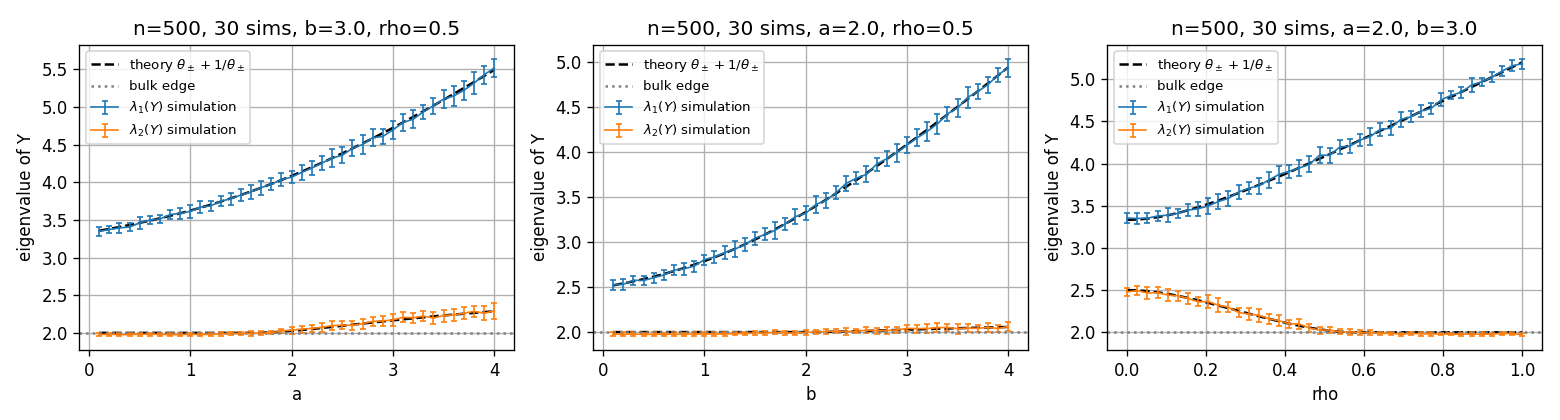
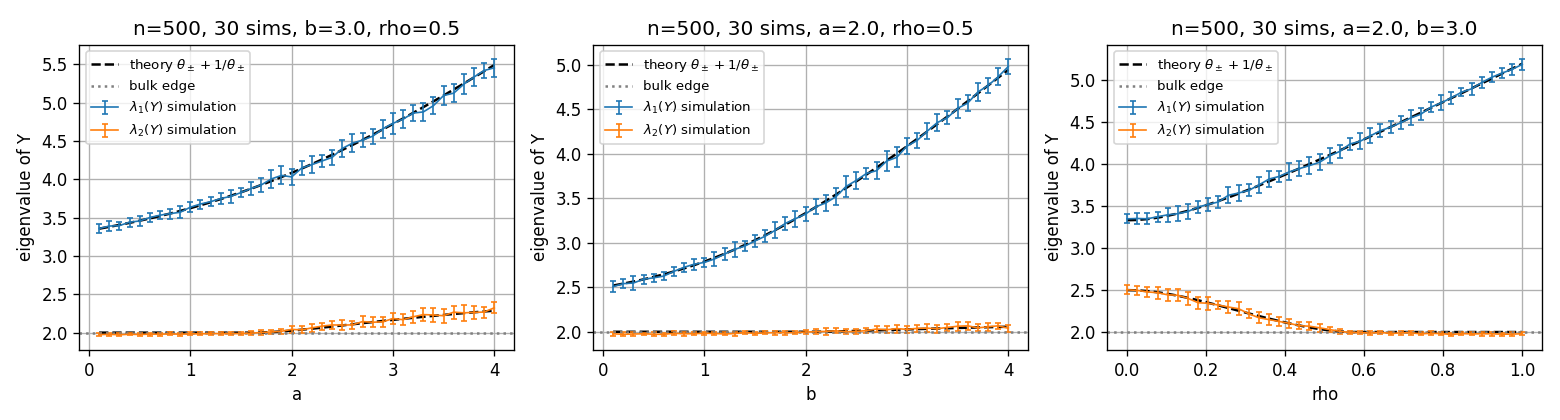
petites modifs

diff --git a/Theory/check_bulk.py b/Theory/check_bulk.py
@@ -1,29 +1,16 @@
-"""WITH the noise bulk: Y = P + W, W Wigner.
-
-Theory (report, eq. bbp): outliers of Y sit at theta + 1/theta when theta > 1 (else at the
-bulk edge 2); the top eigenvector x_hat of Y overlaps the eigenvector v_+ of P with
-sqrt(1 - theta_+^-2), hence  |<x_hat, x_i>| -> sqrt(1 - theta_+^-2) |<v_+, x_i>|.
-
-Figures (saved next to this file):
-  eig   : eigenvalues_Y.png       top-2 eigenvalues of Y vs a, b, rho (+ bulk edge)
-  lam   : overlaps_vs_lambda.png  |<u_pm, v_pm>| vs lambda (lambda1 = lambda2 = lambda)
-  heat  : heat_lambda1_rho.png    |<x_hat,x1>|, |<x_hat,x2>| vs (lambda1, rho), lambda2 fixed
-          heat_a_rho.png          same vs (a, rho), b fixed
-  phase : phase_rho=*.png         RGB phase diagrams in the (a, b) plane, one per rho
-  comp_x_hat : comp_x_hat.png  top eigenvalue of A = Y2 - I + 2 mu F1(x) vs rho and vs lambda1, for
-          x = true x_hat, BBP surrogate m1 x1 + sqrt(1-m1^2) g_perp, and m1 x1
-Run:  python check_bulk.py [eig lam heat phase comp_x_hat]      (no argument = all)
-"""
 import sys
 import numpy as np
 import matplotlib.pyplot as plt
 import matplotlib.patches as mpatches
-import Two_spikes_th_lib as theory
+import two_spikes_th_lib as theory
 from spike_lib import TwoSpikes
-from Two_spikes_th_lib import TwoS_theory
+from two_spikes_th_lib import TwoS_theory
+import os
 
     
 ALPHA = np.sqrt(0.5)
+DIR_PLOTS = "results"       # la ou on envoie nos plots (quel folder)
+os.makedirs(DIR_PLOTS, exist_ok=True)
 
 
 
@@ -80,7 +67,7 @@ def fig_eig(n=500, sims=30):
         others = ", ".join(f"{k}={v}" for k, v in base.items() if k != name)
         ax.set_xlabel(name); ax.set_ylabel("eigenvalue of Y"); ax.set_title(f"n={n}, {sims} sims, {others}")
         ax.grid(); ax.legend(fontsize=8)
-    fig.tight_layout(); fig.savefig("eigenvalues_Y.png", dpi=120)
+    fig.tight_layout(); fig.savefig(os.path.join(DIR_PLOTS, "eigenvalues_Y.png"), dpi=120)
 
 
 #### a refaire 
@@ -250,7 +237,7 @@ def fig_comp_x_hat(n=500, lam1=2.0, lam2=3.0, mu=0.5, rho=0.5, sims=50, n_pts=26
         ax.set_title(rf"{fixed[name]}, $\lambda_2$={lam2}, $\mu$={mu}, $n$={n}")
         ax.grid(); ax.legend(fontsize=8)
     fig.suptitle(f"all the x and theory over {sims} simulations")
-    fig.tight_layout(); fig.savefig("comp_x_hat.png", dpi=120)
+    fig.tight_layout(); fig.savefig(os.path.join(DIR_PLOTS, "comp_x_hat.png"), dpi=120)
     return out
 
 

diff --git a/Theory/Two_spikes_th_lib.py b/Theory/Two_spikes_th_lib.py
@@ -106,7 +106,7 @@ def overlap_naive_signal(theta, rho, a, b):
     return o1, o2
 
 
-def beta_value(mu, lambda1, m1, lambda2, rho):
+def beta_value(mu, lambda1, m1, lambda2, rho):  # builds the beta matrix, diagonalizes it, returns the top eigenvalue
     """Top eigenvalue of the 3x3 matrix beta.
 
     beta is the low-rank part of A = Y2 - I + 2 mu F1(x),  x = m1 x1 + sqrt(1 - m1^2) g_perp,
@@ -120,7 +120,7 @@ def beta_value(mu, lambda1, m1, lambda2, rho):
         beta13 = beta31 = 2 mu (lambda1-1)^2 m1 sqrt(1 - m1^2)
         beta23 = beta32 = 0
 
-    NB: the top eigenvalue of A itself is then (BBP) theta + 1/theta - 1 if theta > 1,
+    Note: the top eigenvalue of A itself is then (BBP) theta + 1/theta - 1 if theta > 1,
     else the bulk edge 2 - 1 = 1, with theta = beta_value(...).
     """
     c = 2 * mu * (lambda1 - 1) ** 2
@@ -134,7 +134,7 @@ def beta_value(mu, lambda1, m1, lambda2, rho):
     return np.linalg.eigvalsh(beta)[-1]
 
 
-def semi_circle(z):
+def semi_circle(z): #takes an array of values, return the semi circle for those values
     z = np.asarray(z)
     result = np.zeros_like(z, dtype=float)
 

diff --git a/README.md b/README.md
@@ -1,4 +1,4 @@
-# Physics_The_Projects
+#### Physics_The_Projects
 
 Semester project on spiked random matrix models (BBP transition, two correlated
 spikes) and Fisher/EWC-based analysis. Continued in semester 2.
@@ -7,7 +7,19 @@ Authors: Taliesin Perez, Celia Budelot.
 
 ---
 
-## Repository layout
+#### Repository layout
+
+### `Theory/`
+Theoretical notes and derivations, plots, and other materials.
+
+## 'results/'
+Contains all the plots.
+
+## 'Report/'
+Contains an earlier version of the latex report.
+
+Files:
+check_bulk.py
 
 ### `Spike_code/`
 Core modules and notebooks.
@@ -33,5 +45,3 @@ Some plots.
 ### `spike_fisher/`
 Some code.
 
-### `Theory/`
-Theoretical notes and derivations, plots, and other materials.
